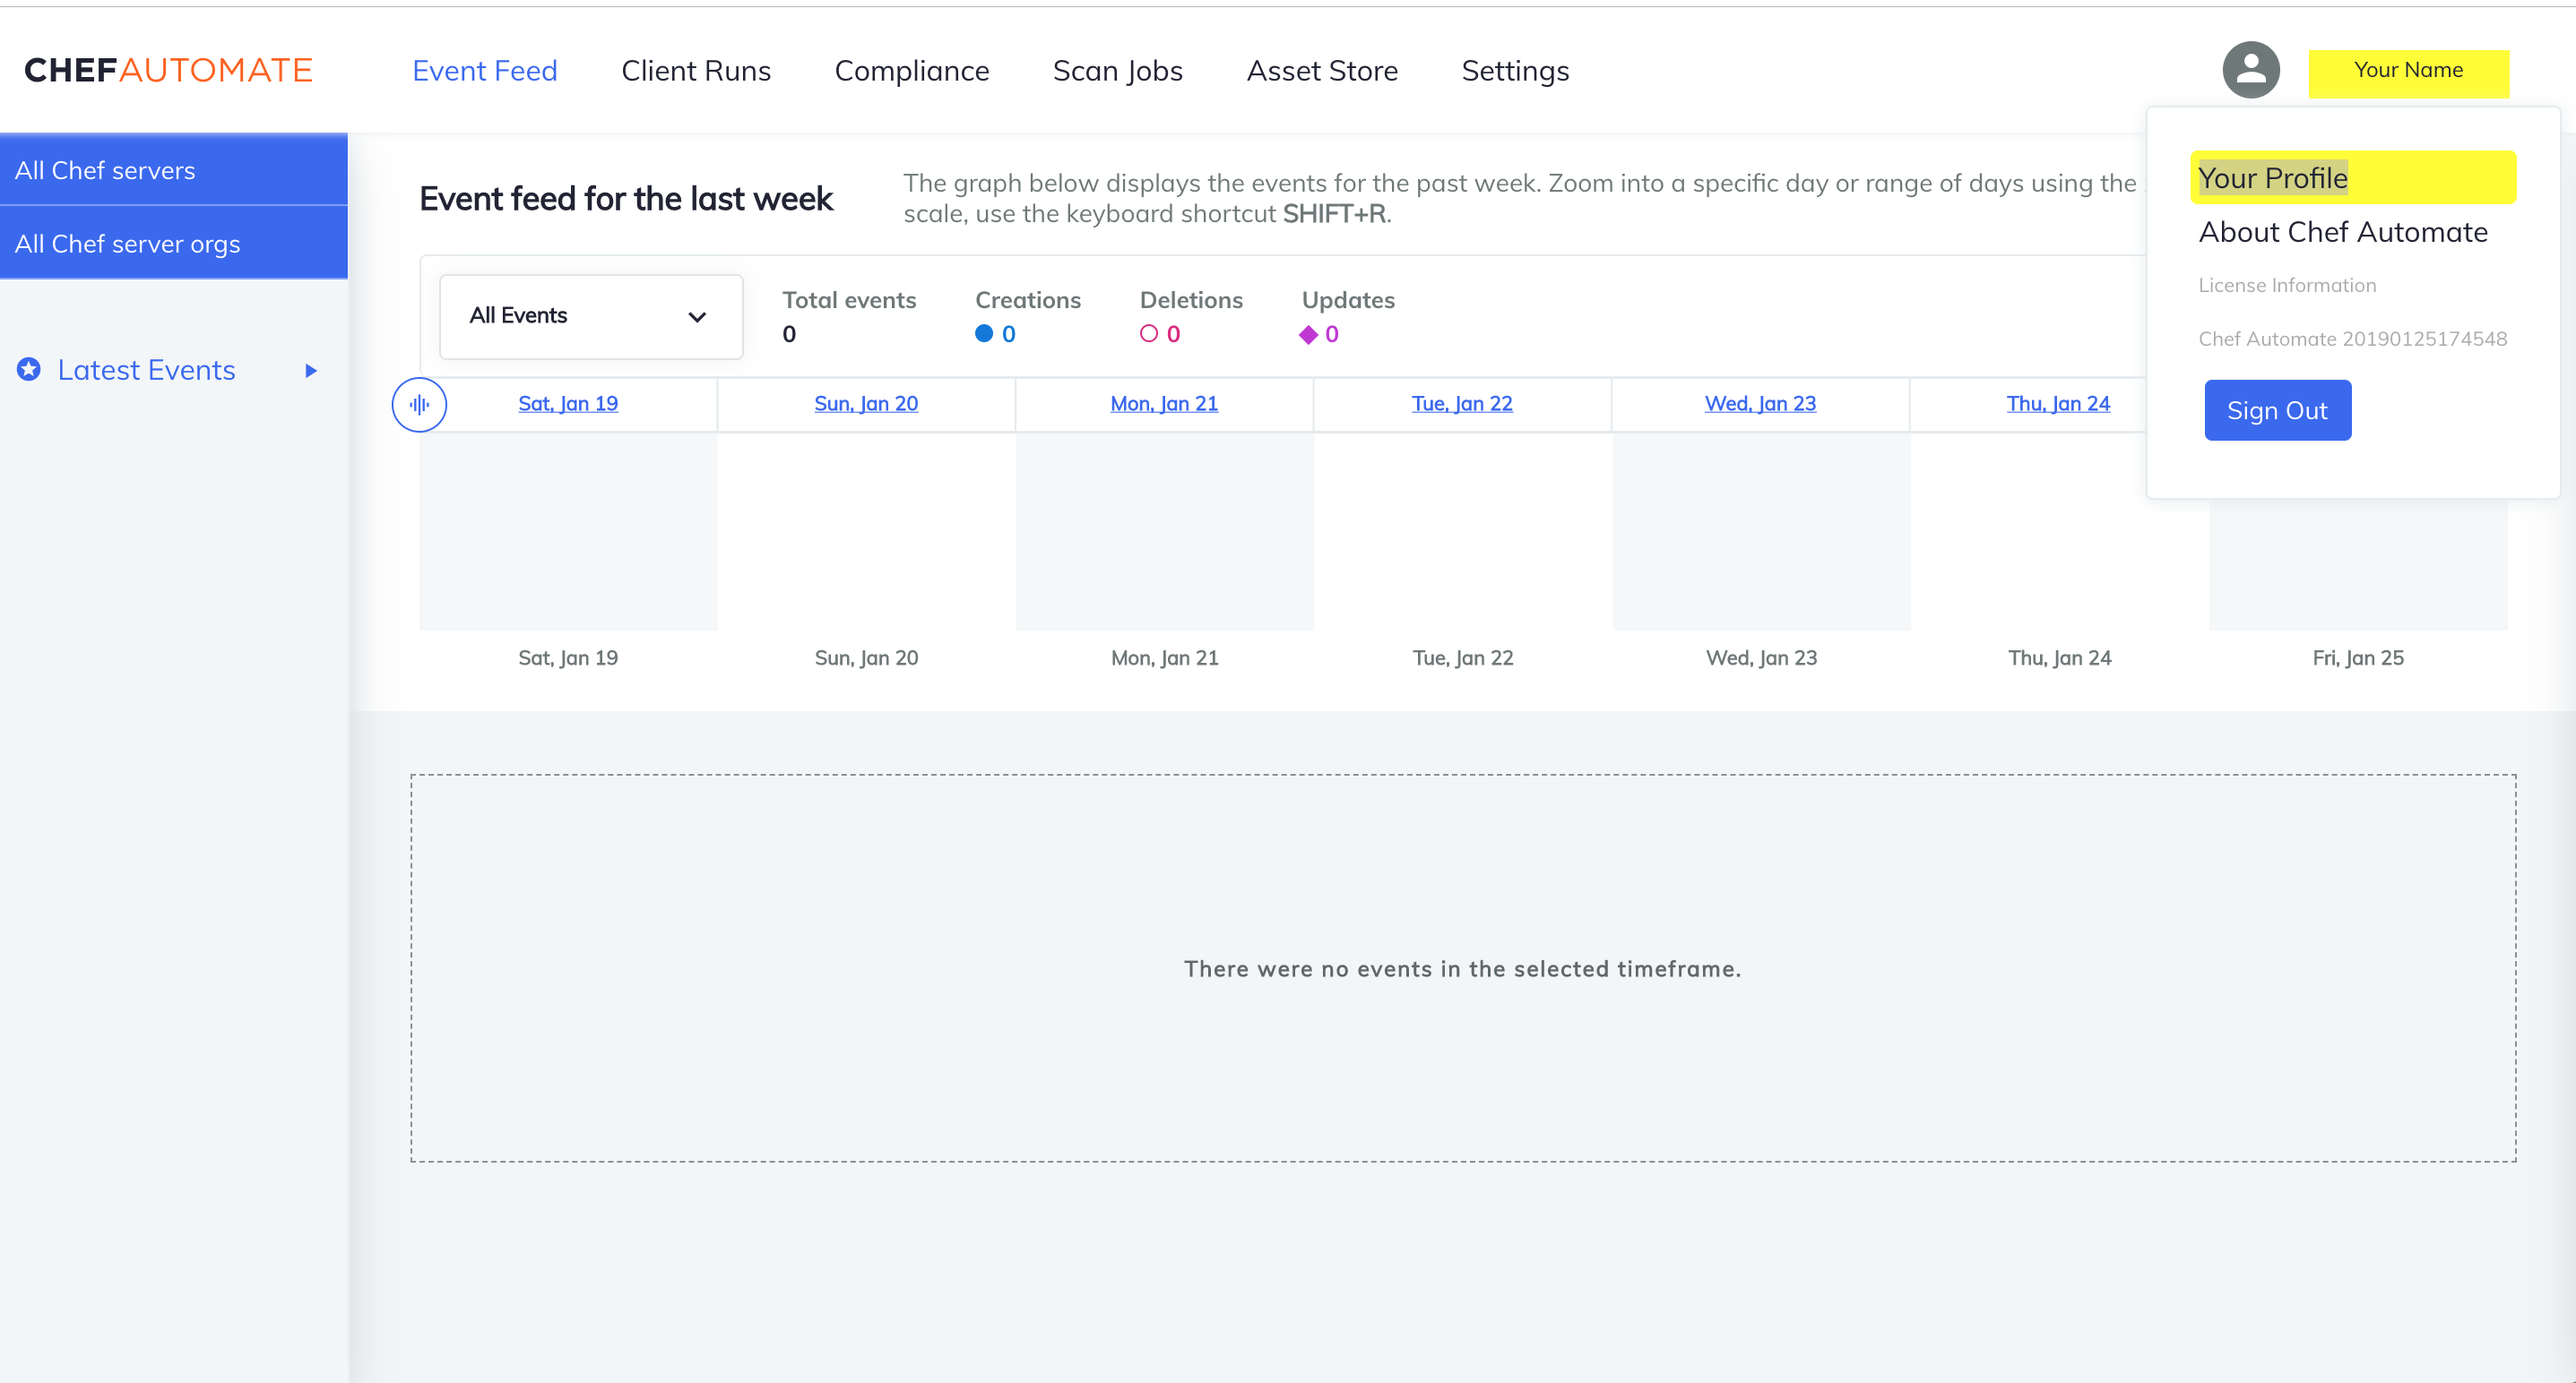
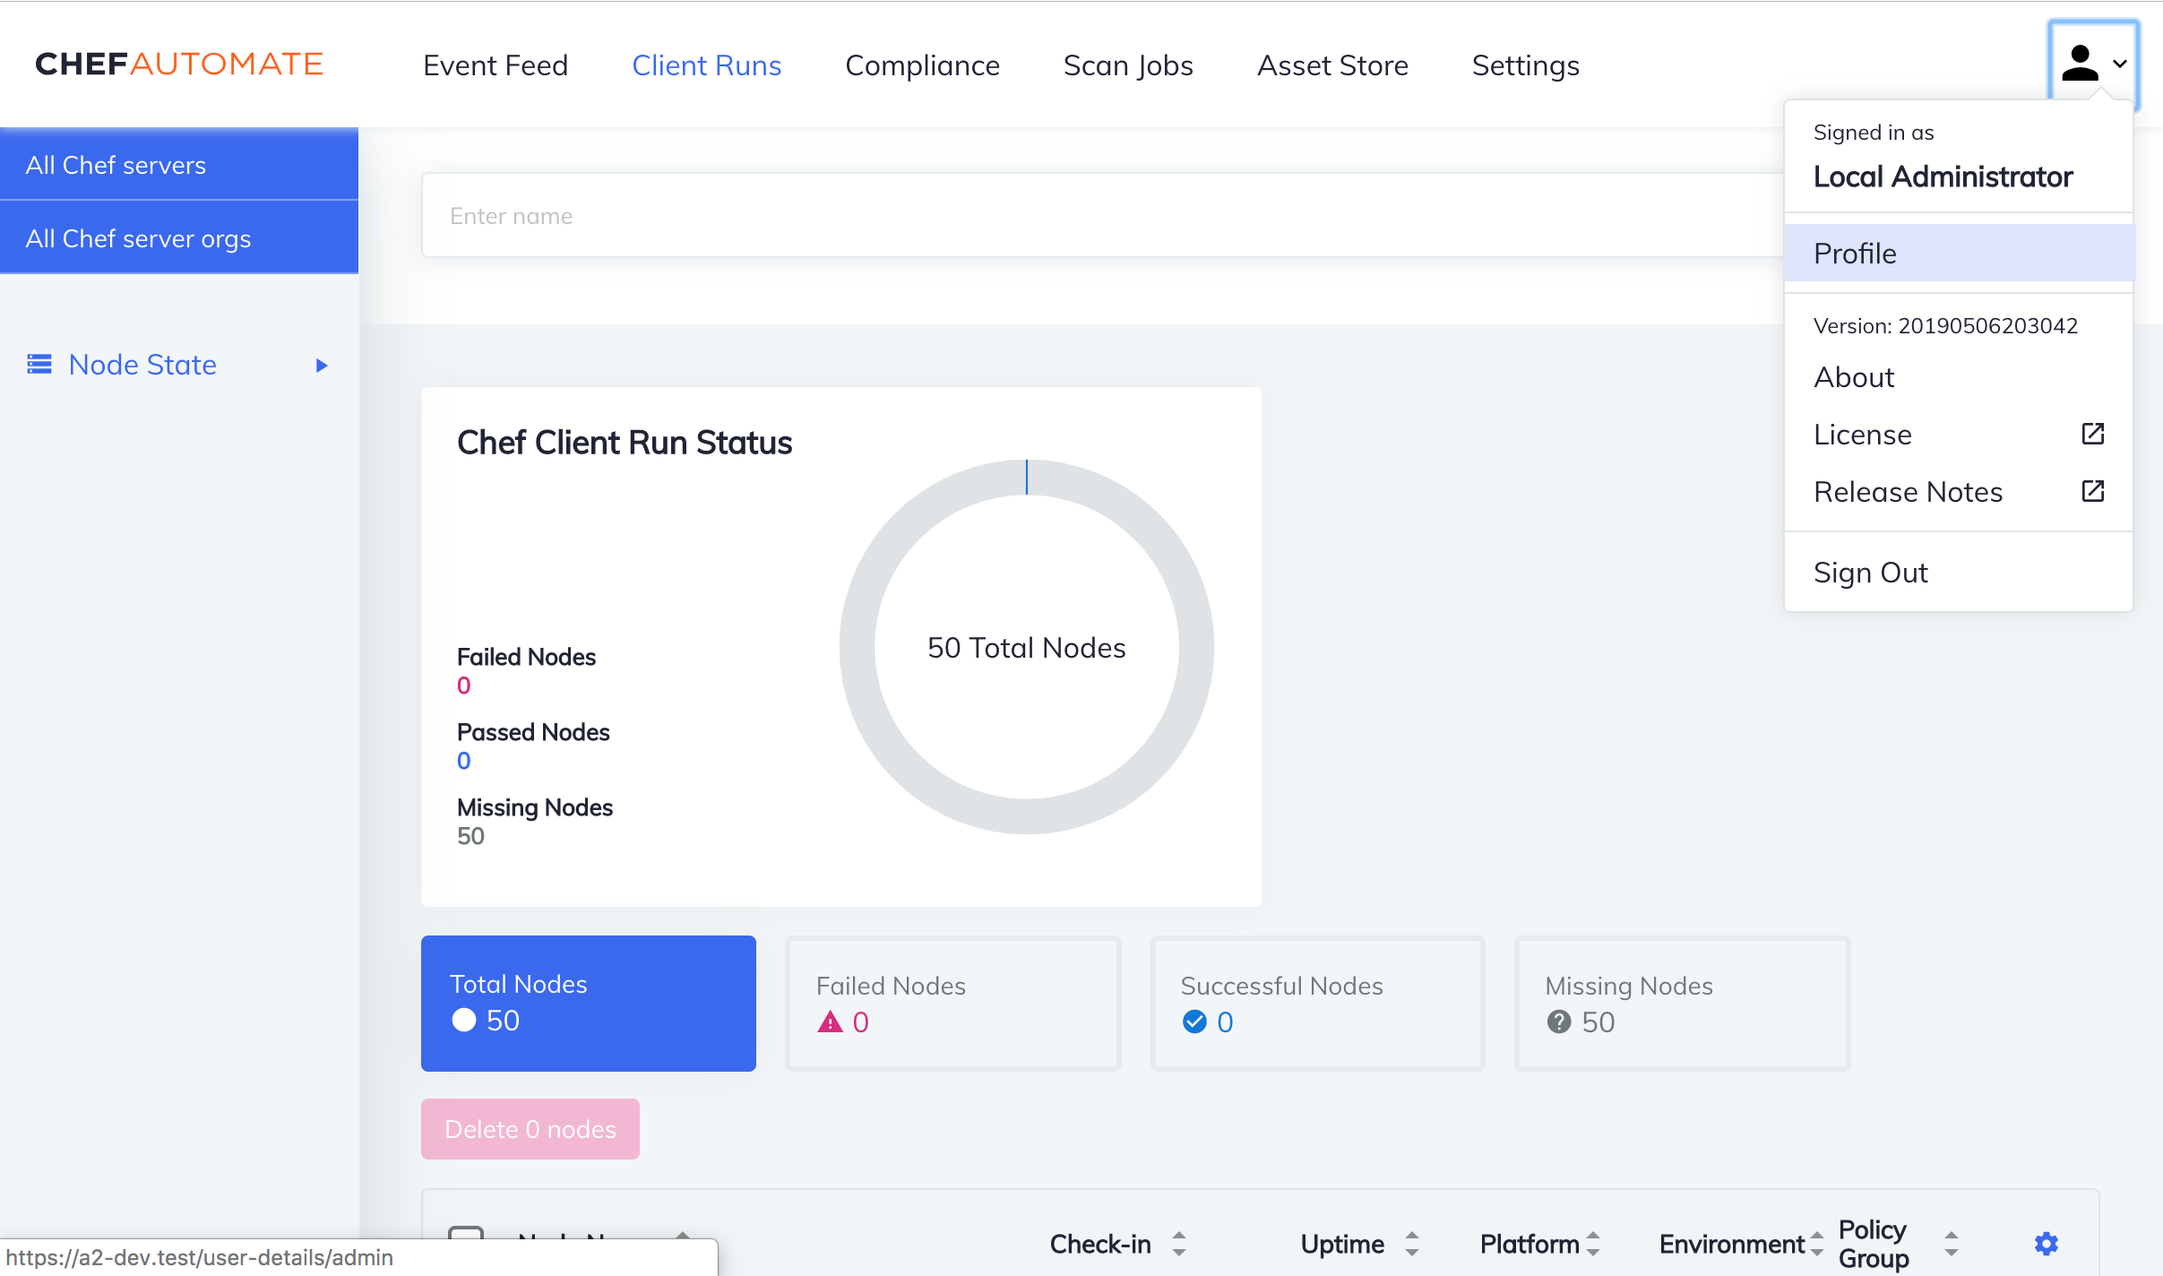
Update docs to reflect changes in user menu

diff --git a/components/automate-chef-io/content/docs/users.md b/components/automate-chef-io/content/docs/users.md
@@ -105,8 +105,8 @@ curl -X DELETE -H "api-token: $TOK" -H "Content-Type: application/json" https://
 ### User Self-Maintenance
 
 Local Automate users can manage their own name and password through the Chef Automate user interface.
-Select your full name in the top navigation bar,
-then select **Your Profile** from the drop-down.
+Click the user icon in the top navigation bar,
+then select **Profile** from the drop-down.
 
 ![Navigate to user profile](/images/docs/user-profile-navigation.png)
 
